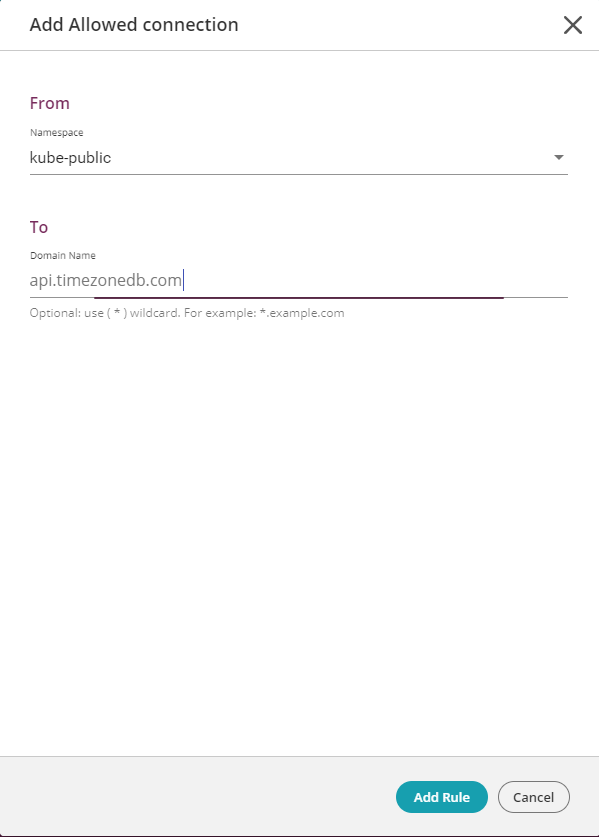
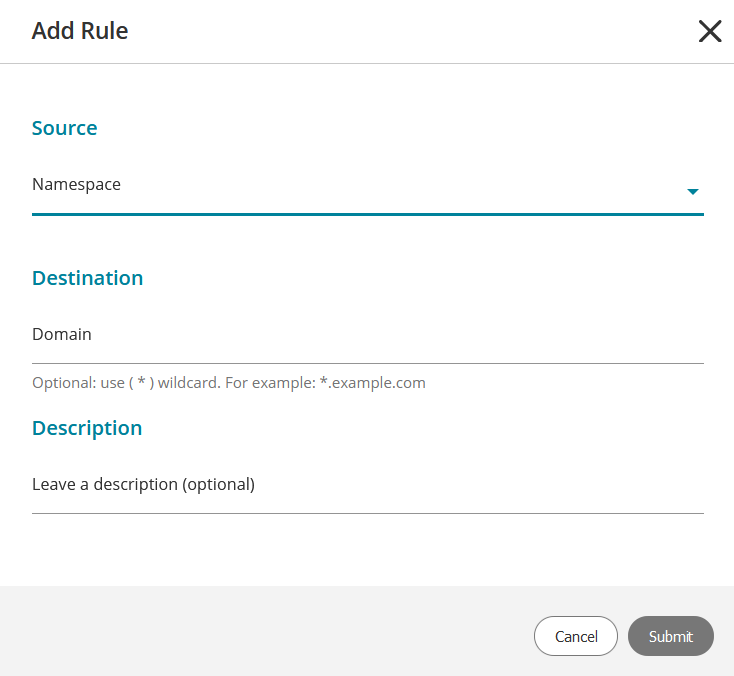
feature / promote-2 Aug 202 / various
allowedconnection
new connections
risk config
menyu

diff --git a/Content/Kubernetes/AllowedConnections.htm b/Content/Kubernetes/AllowedConnections.htm
@@ -1,10 +1,9 @@
 <?xml version="1.0" encoding="utf-8"?>
 <html xmlns:MadCap="http://www.madcapsoftware.com/Schemas/MadCap.xsd">
     <head>
-        <link href="../Resources/TableStyles/PatternedRows.css" rel="stylesheet" MadCap:stylesheetType="table" />
     </head>
     <body>
-        <h1>Security Policy -  Allowed Connections</h1>
+        <h1>Cluster Policy</h1>
         <MadCap:snippetBlock src="../Resources/TopicTemplates/Collateral/UL_Contents.flsnp" />
         <MadCap:snippetBlock src="../Resources/TopicTemplates/Collateral/H2_Overview.flsnp" />
         <MadCap:snippetBlock src="WhatIsClusterPolicy.flsnp" />
@@ -14,10 +13,17 @@
         <p>
             <img src="../Kubernetes-Images/Screen_AllowedConnections.png" class="ThumbnailPopup" />
         </p>
-        <p>Until you add new ones, the list contains only the following allowed connections:</p>
+        <ul>
+            <li><span class="SpecialBold">Source</span>: The location from which the connection will be made. Can be Ingress, Any or namespace. If namespace, it may include Kubernetes service, container and process</li>
+            <li><span class="SpecialBold">Destination</span>: The location to which the connection will be made. Can be:&#160;External service, domain or namespace. If namespace, it may include Kubernetes service, container and process</li>
+            <li><span class="SpecialBold">Port</span>: The port to which the connection will be addressed</li>
+            <li><span class="SpecialBold">Last Hit</span>:&#160;The last time a matching connection was made</li>
+            <li><span class="SpecialBold">Description</span>:&#160;Optional for manually added rules</li>
+        </ul>
+        <p>Until you add new rules, the list contains only these allowed connections:</p>
         <ul>
             <li>
-                <p>From source <MadCap:variable name="local-orca.Kite" />  to destination tufin.io</p>
+                <p>From source service <MadCap:variable name="local-orca.Kite" />  to destination tufin.io</p>
             </li>
             <li>
                 <p>From source all namespaces to destination Kubernetes DNS</p>
@@ -31,16 +37,12 @@
             <li>To apply your security rules to your cluster as Kubernetes network policies.</li>
             <li>To know about connections made that you haven't accounted for; you can get instant alerts too.</li>
         </ol>
-        <p>Adding allowed connections can also be done  from the <a href="NewConnections.htm">New Connections screen</a>.</p>
+        <p>Adding rules can also be done  in <a href="NewConnections.htm">New Connections</a>.</p>
         <MadCap:snippetBlock src="../Resources/TopicTemplates/Collateral/H2_Actions.flsnp" />
         <ul class="Action">
-            <li><a href="#Adding_an_Allowed_Connection_Manually">Add an allowed connection</a>
+            <li><a href="#Adding_an_Allowed_Connection_Manually">Add a rule</a>
             </li>
-            <li><a href="#Deleting">Delete an allowed connection</a>
-            </li>
-            <li><a href="#Locking">Lock / unlock an allowed connection</a>
-            </li>
-            <li><a href="#Resettin">Reset allowed connections</a>
+            <li><a href="#Deleting">Delete rules</a>
             </li>
             <li><a href="#Export">Export as Kubernetes network policies</a>
             </li>
@@ -49,93 +51,48 @@
         </ul>
         <p><a name="Adding_an_Allowed_Connection_Manually"></a>
         </p>
-        <p class="h3">Add an Allowed Connection</p>
+        <p class="h3">Add a Rule</p>
         <p>To specify an allowed connection from a namespace in your cluster to a domain outside of the cluster. </p>
         <ol>
             <li>
-                <p>Click on the <span class="ScreenObject">Add</span> icon <img src="../Kubernetes-Images/IconAddLearning.png" class="noborder" />. The <span class="ScreenObject">Add Allowed Connection</span> window is displayed. </p>
+                <p>Click on <span class="ScreenObject">Add Rule</span>. The <span class="ScreenObject">Add Rule</span> window is displayed. </p>
                 <p>
                     <img src="../Kubernetes-Images/WindowAddAllowedConnection.png" class="ThumbnailPopup" />
                 </p>
             </li>
             <li>
                 <p>Enter the details:</p>
-                <table style="width: 100%;mc-table-style: url('../Resources/TableStyles/PatternedRows.css');" class="TableStyle-PatternedRows" cellspacing="0">
-                    <caption>Fields on the Screen</caption>
-                    <col class="TableStyle-PatternedRows-Column-Regular" style="width: 477px;" />
-                    <col class="TableStyle-PatternedRows-Column-Regular" />
-                    <thead>
-                        <tr class="TableStyle-PatternedRows-Head-Header1">
-                            <th class="TableStyle-PatternedRows-HeadE-Regular-Header1">
-                                <p class="TableHeading">Field Name</p>
-                            </th>
-                            <th class="TableStyle-PatternedRows-HeadD-Regular-Header1">
-                                <p class="TableHeading">Value</p>
-                            </th>
-                        </tr>
-                    </thead>
-                    <tbody>
-                        <tr class="TableStyle-PatternedRows-Body-LightRows">
-                            <td class="TableStyle-PatternedRows-BodyE-Regular-LightRows">Source</td>
-                            <td class="TableStyle-PatternedRows-BodyD-Regular-LightRows">Click in the field to display the list of available namespaces and then click on the required value</td>
-                        </tr>
-                        <tr class="TableStyle-PatternedRows-Body-DarkRows">
-                            <td class="TableStyle-PatternedRows-BodyB-Regular-DarkRows">Destination</td>
-                            <td class="TableStyle-PatternedRows-BodyA-Regular-DarkRows">
-                                <p>Type a valid domain name (DNS). Optionally use the wildcard character on the left of the name. This will allow multiple protocols and/or sub-domains to be included in the same rule.</p>
-                                <p>Examples:&#160;api.example.io, *.example.com</p>
-                            </td>
-                        </tr>
-                    </tbody>
-                </table>
+                <ul>
+                    <li>
+                        <p>Source - Select a namespace from the list, or select All</p>
+                    </li>
+                    <li>
+                        <p>Destination - Enter a valid domain name (DNS). Optionally use the wildcard character on the left of the name to include multiple protocols and/or sub-domains</p>
+                        <p>Examples:&#160;api.example.io, *.example.com</p>
+                    </li>
+                    <li>Description - optional</li>
+                </ul>
             </li>
-            <li>Click <span class="ScreenObject">Add Rule</span> . The rule will be added to the list.</li>
+            <li>Click <span class="ScreenObject">Add Rule</span> . The rule will be added to the list</li>
         </ol>
-        <p class="h3"><a name="Deleting"></a>Delete an Allowed Connection</p>
-        <p>Rules can be deleted from the security policy at any time. </p>
+        <p class="h3"><a name="Deleting"></a>Delete Rules</p>
+        <p>Rules can be deleted from the security policy one at a time:</p>
         <ol>
-            <li>Hover over the line for the appropriate rule and click <img src="../Kubernetes-Images/IconRemove.png" class="noborder" /> when it appears on the line.</li>
-            <li>The allowed connection will be removed.</li>
+            <li>Hover over the line for the appropriate rule and click <img src="../Kubernetes-Images/IconRemove.png" class="noborder" /> when it appears.</li>
         </ol>
-        <p class="h3"><a name="Locking"></a>Lock / Unlock an Allowed Connection</p>
-        <p>The purpose of locking rules is to prevent them from being deleted when resetting allowed connections. However, a locked rule can individually be deleted in the same way as an unlocked rule. Rules can be locked and unlocked in the security policy at any time. </p>
-        <p>To lock a rule:</p>
+        <p>All rules can be deleted in a single action:</p>
         <ol>
-            <li>Hover over the line for the appropriate rule and click the <span class="ScreenObject">Lock icon <img src="../Kubernetes-Images/IconUnlock.png" class="noborder"></img></span> when it appears on the line.</li>
-            <li>Thereafter, the rule will display the <span class="ScreenObject">Locked icon</span> <img src="../Kubernetes-Images/IconLocked.png" class="noborder" /> all the time.</li>
+            <li>Click on <img src="../SecureCloud-Images/Icon_3dots.png" class="noborder" />- the action menu is displayed</li>
+            <li>Select <span class="ScreenObject">Remove all rules</span> </li>
         </ol>
-        <p>To unlock a rule:</p>
-        <ol>
-            <li>Click the <span class="ScreenObject">Locked icon</span> <img src="../Kubernetes-Images/IconLocked.png" class="noborder" /> on the desired line.</li>
-            <li>The <span class="ScreenObject">Locked icon</span> will be removed from the line.</li>
-        </ol>
-        <p class="h3"><a name="Resettin"></a>Reset Allowed Connections</p>
-        <p>Resetting allowed connections restores your policy to a base-line of allowed rules. All rules that have been locked constitute your base-line and if no rules have been locked, your base-line is a policy with no rules whatsoever.</p>
-        <ol>
-            <li>
-                <p>Click on <span class="ScreenObject">Actions</span>  to display the <span class="ScreenObject">Actions</span> menu.</p>
-                <p>
-                    <img src="../Kubernetes-Images/MenuSecurityPolicyActions.png" />
-                </p>
-            </li>
-            <li>
-                <p>Click on <span class="ScreenObject">Reset Allowed Connections</span> from the menu.</p>
-            </li>
-            <li>
-                <p>All allowed connections will be deleted from the security policy, except those that are <a href="#Locking">locked</a>.</p>
-            </li>
-        </ol>
-        <p class="h3"><a name="Export"></a>Export as Kubernetes Network Policies</p>
+        <p class="h3"><a name="Locking"></a><a name="Resettin"></a><a name="Export"></a>Export as Kubernetes Network Policies</p>
         <p class="normal">The security policy will be exported for the namespaces specified in the current namespace filter. A file named &lt;<MadCap:variable name="local.domain" />&gt;-&lt;<MadCap:variable name="local.project" />&gt;.yml will be downloaded via the browser. See <MadCap:xref href="Enforcement.htm">[%=local.Kubernetes%] Policy Enforcement</MadCap:xref>.</p>
         <ol>
             <li>
-                <p>Click on <span class="ScreenObject">Actions</span>  to display the <span class="ScreenObject">Actions</span> menu.</p>
-                <p>
-                    <img src="../Kubernetes-Images/MenuSecurityPolicyActions.png" />
-                </p>
+                <p>Click on <img src="../SecureCloud-Images/Icon_3dots.png" class="noborder" />- the action menu is displayed.</p>
             </li>
             <li>
-                <p>Click on <span class="ScreenObject">Export as network policies </span>from the menu. </p>
+                <p>Select <span class="ScreenObject">Export as network policies </span>from the menu. </p>
             </li>
             <li>
                 <p>Apply the policies by running kubectl apply -f &lt;yaml file name&gt;. For more information on kubectl, see the Kubernetes documentation. </p>
@@ -149,14 +106,11 @@
         <p>After the apply on firewalls process is initiated, the tickets created can be seen on the <a href="FirewallTickets.htm">Firewall Tickets Screen</a>, together with their status. </p>
         <ol>
             <li>
-                <p>Click on <span class="ScreenObject">Actions</span>  to display the <span class="ScreenObject">Actions Menu</span>.</p>
-                <p>
-                    <img src="../Kubernetes-Images/MenuSecurityPolicyActions.png" />
-                </p>
+                <p>Click on <img src="../SecureCloud-Images/Icon_3dots.png" class="noborder" />- the action menu is displayed.</p>
                 <p><MadCap:variable name="local-orca.Product_S" /> recognizes whether the integration is set up. If there is no integration, the <span class="MenuItem">Apply on Firewalls</span> option in the menu will be greyed out and unclickable, and it will show as <span class="MenuItem">Apply on Firewalls (Disabled)</span>. </p>
             </li>
             <li>
-                <p>Click on <span class="ScreenObject">Apply on Firewalls</span> from the menu. This will initiate the process and change the option in the <span class="ScreenObject">Actions Menu</span> to be greyed out and show as <span class="MenuItem">Apply on Firewalls (in-progress)</span>. This status will remain until all requests (tickets) have been resolved and implemented or deleted in the network policy change management system. You cannot initiate the process again while there are requests still in progress.  A separate request (ticket) will be submitted for each namespace in your current filter (see <a href="../SecureCloud/Navigation.htm#Filter">Filter by Namespace</a>). Requests that have been submitted cannot be deleted within <MadCap:variable name="local-orca.Product_S" />. </p>
+                <p>Select <span class="ScreenObject">Apply on Firewalls</span> from the menu. This will initiate the process and change the option in the <span class="ScreenObject">Actions Menu</span> to be greyed out and show as <span class="MenuItem">Apply on Firewalls (in-progress)</span>. This status will remain until all requests (tickets) have been resolved and implemented or deleted in the network policy change management system. You cannot initiate the process again while there are requests still in progress.  A separate request (ticket) will be submitted for each namespace in your current filter (see <a href="../SecureCloud/Navigation.htm#Filter">Filter by Namespace</a>). Requests that have been submitted cannot be deleted within <MadCap:variable name="local-orca.Product_S" />. </p>
             </li>
         </ol>
         <MadCap:snippetBlock src="../Resources/TopicTemplates/Collateral/H2_GetHere.flsnp" />

diff --git a/Content/SecureCloud/WhatsNew.htm b/Content/SecureCloud/WhatsNew.htm
@@ -5,6 +5,45 @@
     </head>
     <body>
         <h1>What's New in <MadCap:variable name="local-iris.ProductName" /></h1>
+        <p class="SubHead1">23rd August 2020</p>
+        <table style="width: 100%;mc-table-style: url('../Resources/TableStyles/PatternedRows.css');" class="TableStyle-PatternedRows" cellspacing="0">
+            <col style="width: 231px;" class="TableStyle-PatternedRows-Column-Regular" />
+            <col style="width: 305px;" class="TableStyle-PatternedRows-Column-Regular" />
+            <col class="TableStyle-PatternedRows-Column-Regular" />
+            <thead>
+                <tr class="TableStyle-PatternedRows-Head-Header1">
+                    <th style="font-weight: normal;" class="TableStyle-PatternedRows-HeadE-Regular-Header1">
+                        <p class="TableHeading">Title</p>
+                    </th>
+                    <th style="font-weight: normal;" class="TableStyle-PatternedRows-HeadE-Regular-Header1">
+                        <p class="TableHeading"><MadCap:variable name="Topic Templates.HowDoIgetHere" />
+                        </p>
+                    </th>
+                    <th style="font-weight: normal;" class="TableStyle-PatternedRows-HeadD-Regular-Header1">
+                        <p class="TableHeading">Details</p>
+                    </th>
+                </tr>
+            </thead>
+            <tbody>
+                <tr MadCap:conditions="" class="TableStyle-PatternedRows-Body-LightRows">
+                    <td class="TableStyle-PatternedRows-BodyE-Regular-LightRows">Allowed Connections replaced with <MadCap:variable name="local.Cluster Policy" /></td>
+                    <td class="TableStyle-PatternedRows-BodyE-Regular-LightRows">
+                        <MadCap:snippetBlock src="../Resources/Snippets/GetHere_AllowedConnections.flsnp" />
+                    </td>
+                    <td class="TableStyle-PatternedRows-BodyD-Regular-LightRows">Feature name changed and more information provided including port, service, container and process</td>
+                </tr>
+                <tr MadCap:conditions="" class="TableStyle-PatternedRows-Body-DarkRows">
+                    <td class="TableStyle-PatternedRows-BodyE-Regular-DarkRows">&#160;</td>
+                    <td class="TableStyle-PatternedRows-BodyE-Regular-DarkRows">&#160;</td>
+                    <td class="TableStyle-PatternedRows-BodyD-Regular-DarkRows">&#160;</td>
+                </tr>
+                <tr MadCap:conditions="" class="TableStyle-PatternedRows-Body-LightRows">
+                    <td class="TableStyle-PatternedRows-BodyB-Regular-LightRows">&#160;</td>
+                    <td class="TableStyle-PatternedRows-BodyB-Regular-LightRows">&#160;</td>
+                    <td class="TableStyle-PatternedRows-BodyA-Regular-LightRows">&#160;</td>
+                </tr>
+            </tbody>
+        </table>
         <p class="SubHead1">5th August 2020</p>
         <table style="width: 100%;mc-table-style: url('../Resources/TableStyles/PatternedRows.css');" class="TableStyle-PatternedRows" cellspacing="0">
             <col style="width: 231px;" class="TableStyle-PatternedRows-Column-Regular" />
@@ -84,7 +123,7 @@
             </thead>
             <tbody>
                 <tr MadCap:conditions="" class="TableStyle-PatternedRows-Body-LightRows">
-                    <td class="TableStyle-PatternedRows-BodyB-Regular-LightRows">Last Hit added to <MadCap:variable name="local.Allowed Connections" /></td>
+                    <td class="TableStyle-PatternedRows-BodyB-Regular-LightRows">Last Hit added to Allowed Connections</td>
                     <td class="TableStyle-PatternedRows-BodyB-Regular-LightRows">
                         <MadCap:snippetBlock src="../Resources/Snippets/GetHere_AllowedConnections.flsnp" />
                     </td>

diff --git a/Content/SecureCloud/ConceptOfPolicy.htm b/Content/SecureCloud/ConceptOfPolicy.htm
@@ -43,6 +43,6 @@
         <p> <img src="../Kubernetes-Images/ButtonEnforce.png" /></p>
         <MadCap:snippetBlock src="../Resources/Snippets/Warning Enforce.flsnp" />
         <p class="h3">What Happens With Existing Kubernetes Network Policies?</p>
-        <p>If you have implemented Kubernetes network policies outside of <MadCap:variable name="local.ProductName" />, these will not be affected unless you specify otherwise. When Policy Mode is set to <span class="StatusOrValue">Enforce</span>, your existing policies work side by side with the policy of <MadCap:variable name="local.Allowed Connections" />. When Policy Mode is set to <span class="StatusOrValue">Learn</span>, which is meant to allow all connections and let you can see all the activity in the <MadCap:variable name="local.project" />, some connections will still be blocked due to the  Kubernetes network policies you've implemented. While this may be good from a protection point of view, the downside is that you cannot see all the connections attempted. <MadCap:variable name="local-orca.Product_S" /> gives you a way of temporarily bypassing those policies while  Policy Mode is set to <span class="StatusOrValue">Learn</span> and cancelling the bypass when  Policy Mode is set back to <span class="StatusOrValue">Enforce</span>. This is done in <a href="../Kubernetes/OrcaSettingsGeneral.htm">Settings</a> via <span class="StatusOrValue">Set Kubernetes Network Policy to Allow-All in Learn Mode</span>. When the setting is enabled  and Policy Mode is set to <span class="StatusOrValue">Learn</span>, <MadCap:variable name="local-orca.Product_S" /> creates a temporary Any-Any-Allow Kubernetes network  policy (marked with a label), which allows all traffic, for each monitored namespace. These temporary policies are removed when Policy Mode is set to <span class="StatusOrValue">Enforce</span> or the setting is disabled. </p>
+        <p>If you have implemented Kubernetes network policies outside of <MadCap:variable name="local.ProductName" />, these will not be affected unless you specify otherwise. When Policy Mode is set to <span class="StatusOrValue">Enforce</span>, your existing policies work side by side with your <MadCap:variable name="local.Cluster Policy" />. When Policy Mode is set to <span class="StatusOrValue">Learn</span>, which is meant to allow all connections and let you can see all the activity in the <MadCap:variable name="local.project" />, some connections will still be blocked due to the  Kubernetes network policies you've implemented. While this may be good from a protection point of view, the downside is that you cannot see all the connections attempted. <MadCap:variable name="local-orca.Product_S" /> gives you a way of temporarily bypassing those policies while  Policy Mode is set to <span class="StatusOrValue">Learn</span> and cancelling the bypass when  Policy Mode is set back to <span class="StatusOrValue">Enforce</span>. This is done in <a href="../Kubernetes/OrcaSettingsGeneral.htm">Settings</a> via <span class="StatusOrValue">Set Kubernetes Network Policy to Allow-All in Learn Mode</span>. When the setting is enabled  and Policy Mode is set to <span class="StatusOrValue">Learn</span>, <MadCap:variable name="local-orca.Product_S" /> creates a temporary Any-Any-Allow Kubernetes network  policy (marked with a label), which allows all traffic, for each monitored namespace. These temporary policies are removed when Policy Mode is set to <span class="StatusOrValue">Enforce</span> or the setting is disabled. </p>
     </body>
 </html>

diff --git a/Content/Kubernetes/NewConnections.htm b/Content/Kubernetes/NewConnections.htm
@@ -25,6 +25,7 @@
         <p MadCap:conditions="General.Exclude"><MadCap:variable name="local-orca.Product_S" /> stores the IP addresses for sources of inbound connections (ingress) and destinations of outbound connections (egress). These IPs are used when generating Kubernetes network policies (Reuven Harrison)</p>
         <p class="h3">Notifications</p>
         <p>A notification can be sent whenever a new connection is discovered. See <a href="OrcaSettingsNotifications.htm">Notifications and Alerts</a>.</p>
+        <MadCap:snippetBlock src="../Resources/TopicTemplates/Collateral/H3_SeeHere.flsnp" />
         <p>
             <img src="../SecureCloud-Images/Screen_NewConnections.png" class="ThumbnailPopup" />
         </p>
@@ -33,12 +34,7 @@
             <li>
                 <p><span class="SpecialBold">Source</span>
                 </p>
-                <p>The name of the service from which the connection was initiated, or 'ingress' if the connection was initiated from outside the cluster</p>
-            </li>
-            <li>
-                <p><span class="SpecialBold">Source Namespace</span>
-                </p>
-                <p>The namespace containing the source service</p>
+                <li>The location from which the connection will be made. Can be Ingress, Any or namespace. If namespace, it may include Kubernetes service, container and process</li>
             </li>
             <li>
                 <p><span class="SpecialBold">Destination</span>
@@ -46,9 +42,9 @@
                 <p>The IP address or name of the service&#160;to which the connection was made</p>
             </li>
             <li>
-                <p><span class="SpecialBold">Destination Namespace</span>
+                <p><span class="SpecialBold">Port</span>
                 </p>
-                <p>The namespace containing the destination service</p>
+                <p>The port through which the connection is made</p>
             </li>
             <li>
                 <p><span class="ScreenObject">Last hit</span>
@@ -59,9 +55,13 @@
         <MadCap:snippetBlock src="../Resources/TopicTemplates/Collateral/H2_Actions.flsnp" />
         <ul class="Action">
             <li>
-                <p><span class="SpecialBold">Turn new connections into policy rules (allowed connections)</span>
+                <p><span class="SpecialBold">Turn a new connection into a policy rule</span>
                 </p>
-                <p>Select one or more new connections and click <span class="ScreenObject">Add to Policy</span>. The selected rules will be added to your security policy and removed from the current display and the number of new connections displayed will be updated accordingly.</p>
+                <p>Hover over a new connection and click <img src="../Kubernetes-Images/IconAddLearning.png" alt="" title="" class="noborder" />. The rule will be added to your security policy and removed from the current display and the number of new connections displayed will be updated accordingly.</p>
+            </li>
+            <li>
+                <p>Turn all new connections to policy rules</p>
+                <p>Click <span class="ScreenObject">Add to Policy</span>. </p>
             </li>
         </ul>
         <p class="h2">How do I get here?</p>

diff --git a/Content/SecureCloud/ConfigRiskCloud.htm b/Content/SecureCloud/ConfigRiskCloud.htm
@@ -1,0 +1,29 @@
+<?xml version="1.0" encoding="utf-8"?>
+<html xmlns:MadCap="http://www.madcapsoftware.com/Schemas/MadCap.xsd">
+    <head>
+    </head>
+    <body>
+        <h1>
+            <MadCap:concept term="Settings" />Configure Risks for Public Cloud</h1>
+        <MadCap:snippetBlock src="../Resources/TopicTemplates/Collateral/UL_Contents.flsnp" />
+        <MadCap:snippetBlock src="../Resources/TopicTemplates/Collateral/H2_Overview.flsnp" />
+        <p>Define your own risk criteria for <MadCap:variable name="local.ProductName" /> reports</p>
+        <MadCap:snippetBlock src="../Resources/TopicTemplates/Collateral/H2_Actions.flsnp" />
+        <ul class="Action">
+            <li><a href="#Slack">Configure a New Connection Alert</a> </li>
+        </ul>
+        <p class="h3"><a name="Slack"></a>Configure a New Connection Alert</p>
+        <ol>
+            <li>
+                <p> Enable / disable the alert on or off using the toggle switch.</p>
+            </li>
+            <li>
+                <p>When the alert is enabled, enter the Slack URL of an individual or group to receive notifications - see <a href="https://api.slack.com/incoming-webhooks">Slack documentation</a>. <MadCap:variable name="local-orca.Product_S" /> remembers the URL when disabled.</p>
+            </li>
+        </ol>
+        <p>
+            <MadCap:snippetBlock src="../Resources/TopicTemplates/Collateral/H2_GetHere.flsnp" />
+            <MadCap:snippetBlock src="../Resources/Snippets/GetHere_OrcaSettingsNotifications.flsnp" />
+        </p>
+    </body>
+</html>

diff --git a/Content/SecureCloud/Navigation.htm b/Content/SecureCloud/Navigation.htm
@@ -140,6 +140,8 @@
                     </li>
                     <li><a href="ActiveDirectory.htm"><MadCap:variable name="local.ActiveDirectory" /></a>
                     </li>
+                    <li><MadCap:variable name="local.RiskConfiguration" />
+                    </li>
                 </ul>
             </li>
         </ul>
